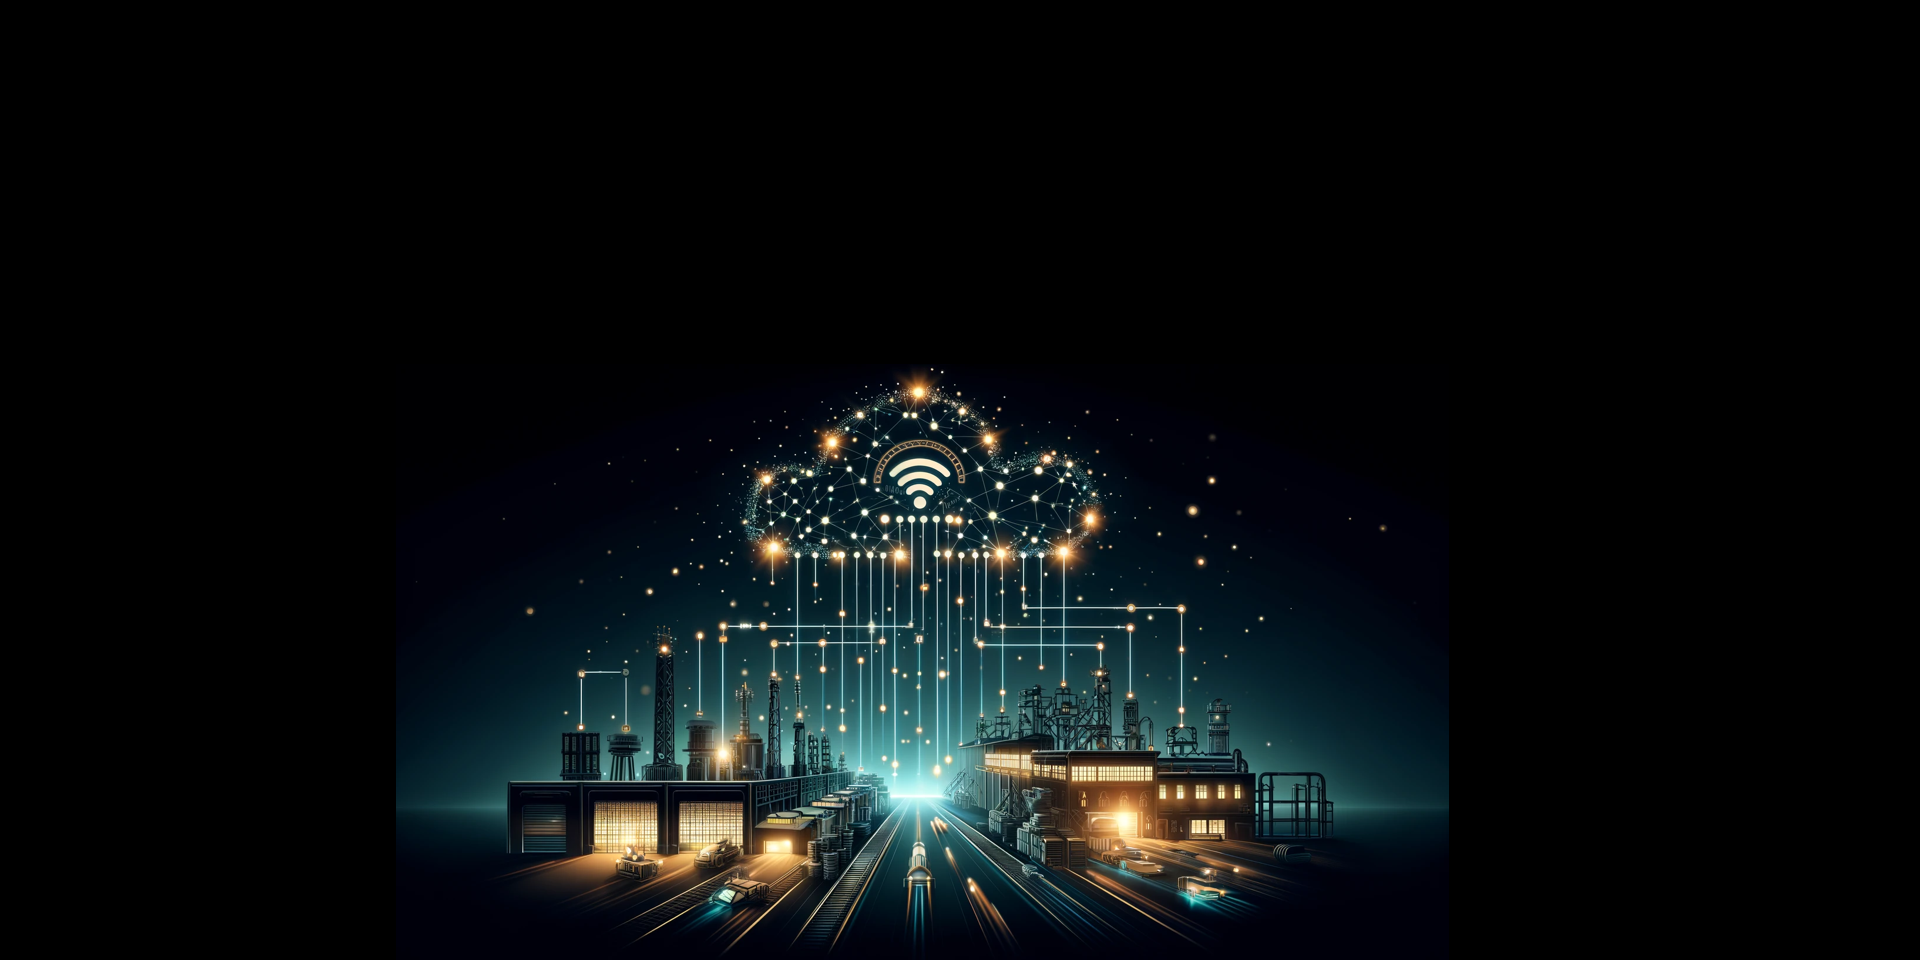
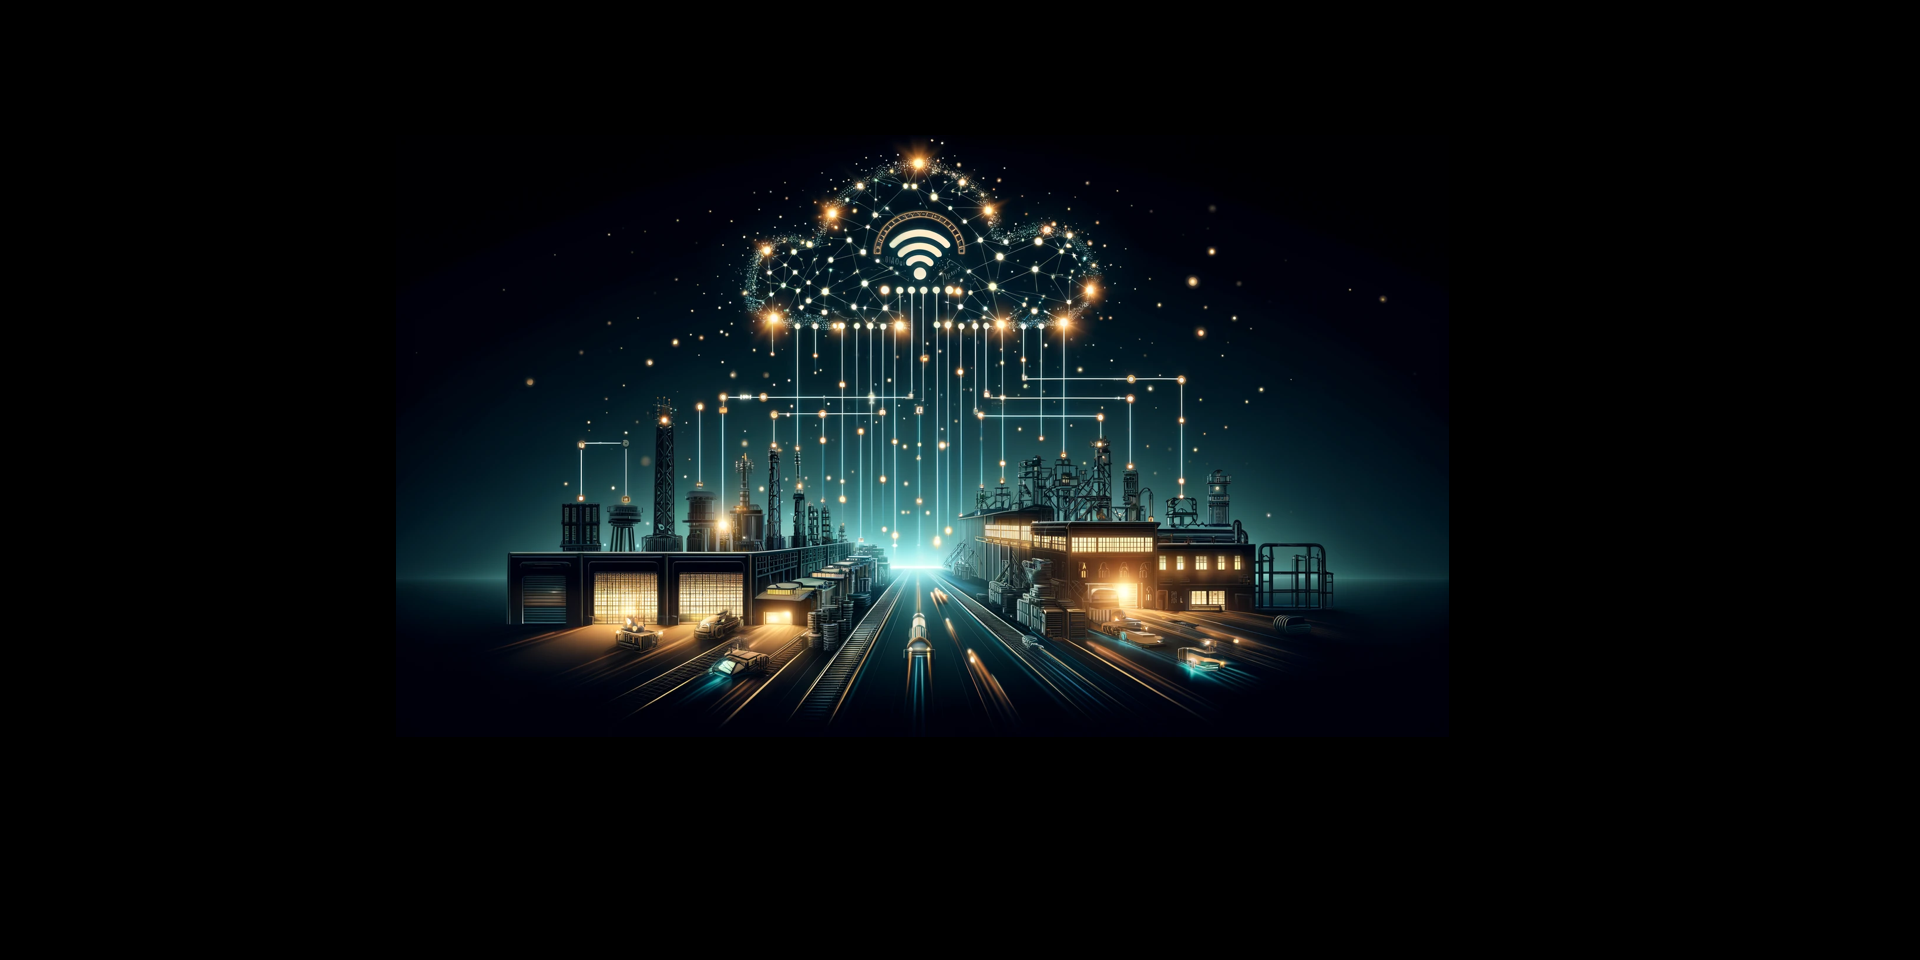
Update Header Scaling

Changed region(s): [[0.1875, 0.1562, 0.7812, 1.0]]

diff --git a/assets/css/main.scss b/assets/css/main.scss
@@ -35,4 +35,8 @@ $brand-color: map-get($brand-colors, "orangered");
 
 $content-width: {{ site.content_width | default: '920px' }};
 
+$banner-image: (
+  "background-size": contain;
+  "background-repeat": no-repeat;
+);
 @import "yat";

diff --git a/_sass/yat/_dark.scss b/_sass/yat/_dark.scss
@@ -215,4 +215,3 @@ html[data-theme="dark"]  {
     }
   }
 }
-
